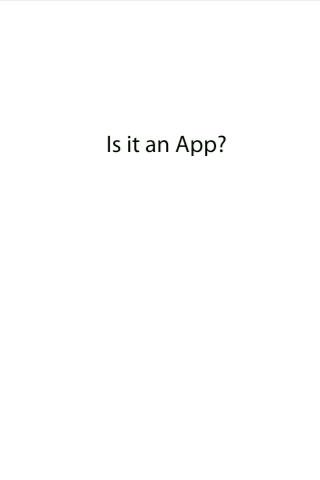
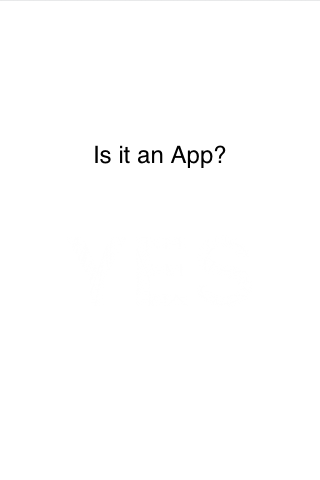
removing the custom font label, reverting to standard UILabels and Helvetica

Changed region(s): [[0.2812, 0.2812, 0.7188, 0.3438]]

diff --git a/Classes/QuestionViewController.m b/Classes/QuestionViewController.m
@@ -19,9 +19,9 @@
 	if (questionIndex >= 0 && questionIndex < [[Datasource sharedDatasource] questionCount])
 	{
 		NSDictionary *questionData = [[Datasource sharedDatasource] dataForQuestion: questionIndex];
-		[questionLabel setString: [questionData objectForKey: @"question"]];
+		[questionLabel setText: [questionData objectForKey: @"question"]];
         [answerLabel setAlpha: [[Datasource sharedDatasource] displayedYet: questionIndex] ? 1.0 : 0.0];
-		[answerLabel setString: [[questionData objectForKey: @"answer"] boolValue] == YES ? @"YES" : @"NO"];
+		[answerLabel setText: [[questionData objectForKey: @"answer"] boolValue] == YES ? @"YES" : @"NO"];
 	}
 }
 
@@ -46,10 +46,12 @@
     [[Datasource sharedDatasource] setHasBeenDisplayed: self.questionIndex];
 }
 
+/*
 // Implement loadView to create a view hierarchy programmatically, without using a nib.
 - (void)loadView {
     [super loadView];
 
+    
     questionLabel = [[FontLabel alloc] initWithPoint:CGPointMake(160, 130) 
                                                 name:@"MyriadPro-Regular" 
                                                 size:24.0f 
@@ -76,6 +78,7 @@
     [answerLabel release];
     [super viewDidLoad];
 }
+*/
 
 - (void)didReceiveMemoryWarning {
     [super didReceiveMemoryWarning]; // Releases the view if it doesn't have a superview

diff --git a/Classes/IsItViewController.m b/Classes/IsItViewController.m
@@ -52,7 +52,7 @@
     
     [self startIndicating];
     [scrollView setScrollEnabled: NO];
-
+    
     // now fetch the other questions from the server
     [NSThread detachNewThreadSelector: @selector(retrieveQuestions:) 
                              toTarget: self 
@@ -66,17 +66,17 @@
   // add indicator
   CGRect frame = indicator.frame;
   frame.origin.x = 320 / 2 - frame.size.width / 2;
-  frame.origin.y = 208;
+  frame.origin.y = 260;
   indicator.frame = frame;
   [scrollView addSubview: indicator];
 }
 
 - (void) startIndicating
 {
-  [UIView beginAnimations: @"indicatorFadeIn" context: NULL];
-	[UIView setAnimationDuration: 0.2f];
-	[indicator startAnimating];
-	[UIView commitAnimations];
+    [UIView beginAnimations: @"indicatorFadeIn" context: NULL];
+    [UIView setAnimationDuration: 0.2f];
+    [indicator startAnimating];
+    [UIView commitAnimations];
 }
 
 - (void) stopIndicating

diff --git a/Classes/Datasource.m b/Classes/Datasource.m
@@ -75,7 +75,7 @@ SYNTHESIZE_SINGLETON_FOR_CLASS(Datasource);
 	NSURL *jsonURL = [NSURL URLWithString: [NSString stringWithFormat: QUESTIONS_URL, 
                                           currentPage, nil]];
 	NSLog(@"fetching %@", jsonURL);
-	NSString *jsonData = [[NSString alloc] initWithContentsOfURL: jsonURL];	
+	NSString *jsonData = [[[NSString alloc] initWithContentsOfURL: jsonURL] autorelease];	
 	if (jsonData == nil)
 	{
         [self appendStaticQuestions];
@@ -99,9 +99,9 @@ SYNTHESIZE_SINGLETON_FOR_CLASS(Datasource);
         lastRetrieveSucceeded = YES;
         currentPage += 1;
 	}
-	[jsonData release];	
+	//[jsonData release];	
   
-  return lastRetrieveSucceeded;
+    return lastRetrieveSucceeded;
 }
 
 - (BOOL) displayedYet: (NSInteger) index

diff --git a/Classes/IsItAppDelegate.m b/Classes/IsItAppDelegate.m
@@ -8,7 +8,7 @@
 
 #import "IsItAppDelegate.h"
 #import "IsItViewController.h"
-#import "FontLabel.h"
+//#import "FontLabel.h"
 
 @implementation IsItAppDelegate
 
@@ -18,8 +18,8 @@
 
 - (void)applicationDidFinishLaunching:(UIApplication *)application { 
     
-    [FontLabel loadFont:@"MyriadPro-Bold"];
-    [FontLabel loadFont:@"MyriadPro-Regular"];
+    //[FontLabel loadFont:@"MyriadPro-Bold"];
+    //[FontLabel loadFont:@"MyriadPro-Regular"];
     
     // Override point for customization after app launch    
     [window addSubview:viewController.view];

diff --git a/Classes/QuestionViewController.h b/Classes/QuestionViewController.h
@@ -7,11 +7,13 @@
 //
 
 #import <UIKit/UIKit.h>
-#import "FontLabel.h"
+//#import "FontLabel.h"
 
 @interface QuestionViewController : UIViewController {
-    FontLabel *questionLabel;
-    FontLabel *answerLabel;
+    //FontLabel *questionLabel;
+    //FontLabel *answerLabel;
+    IBOutlet UILabel *questionLabel;
+    IBOutlet UILabel *answerLabel;
     NSInteger questionIndex;
 }
 
